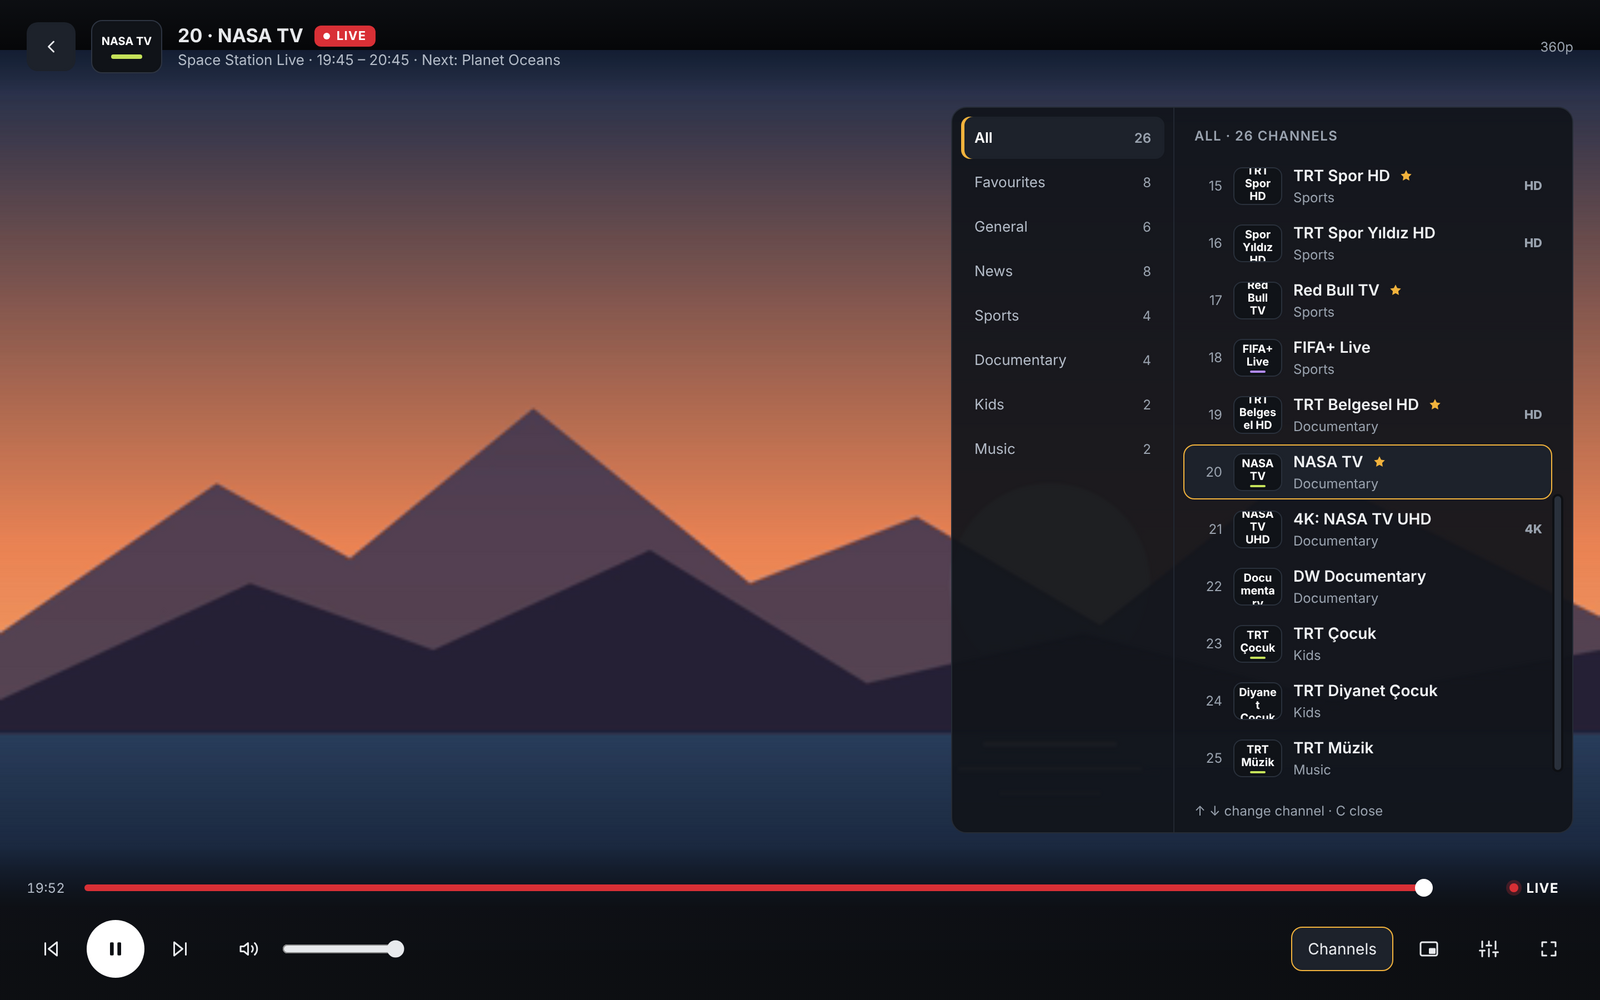
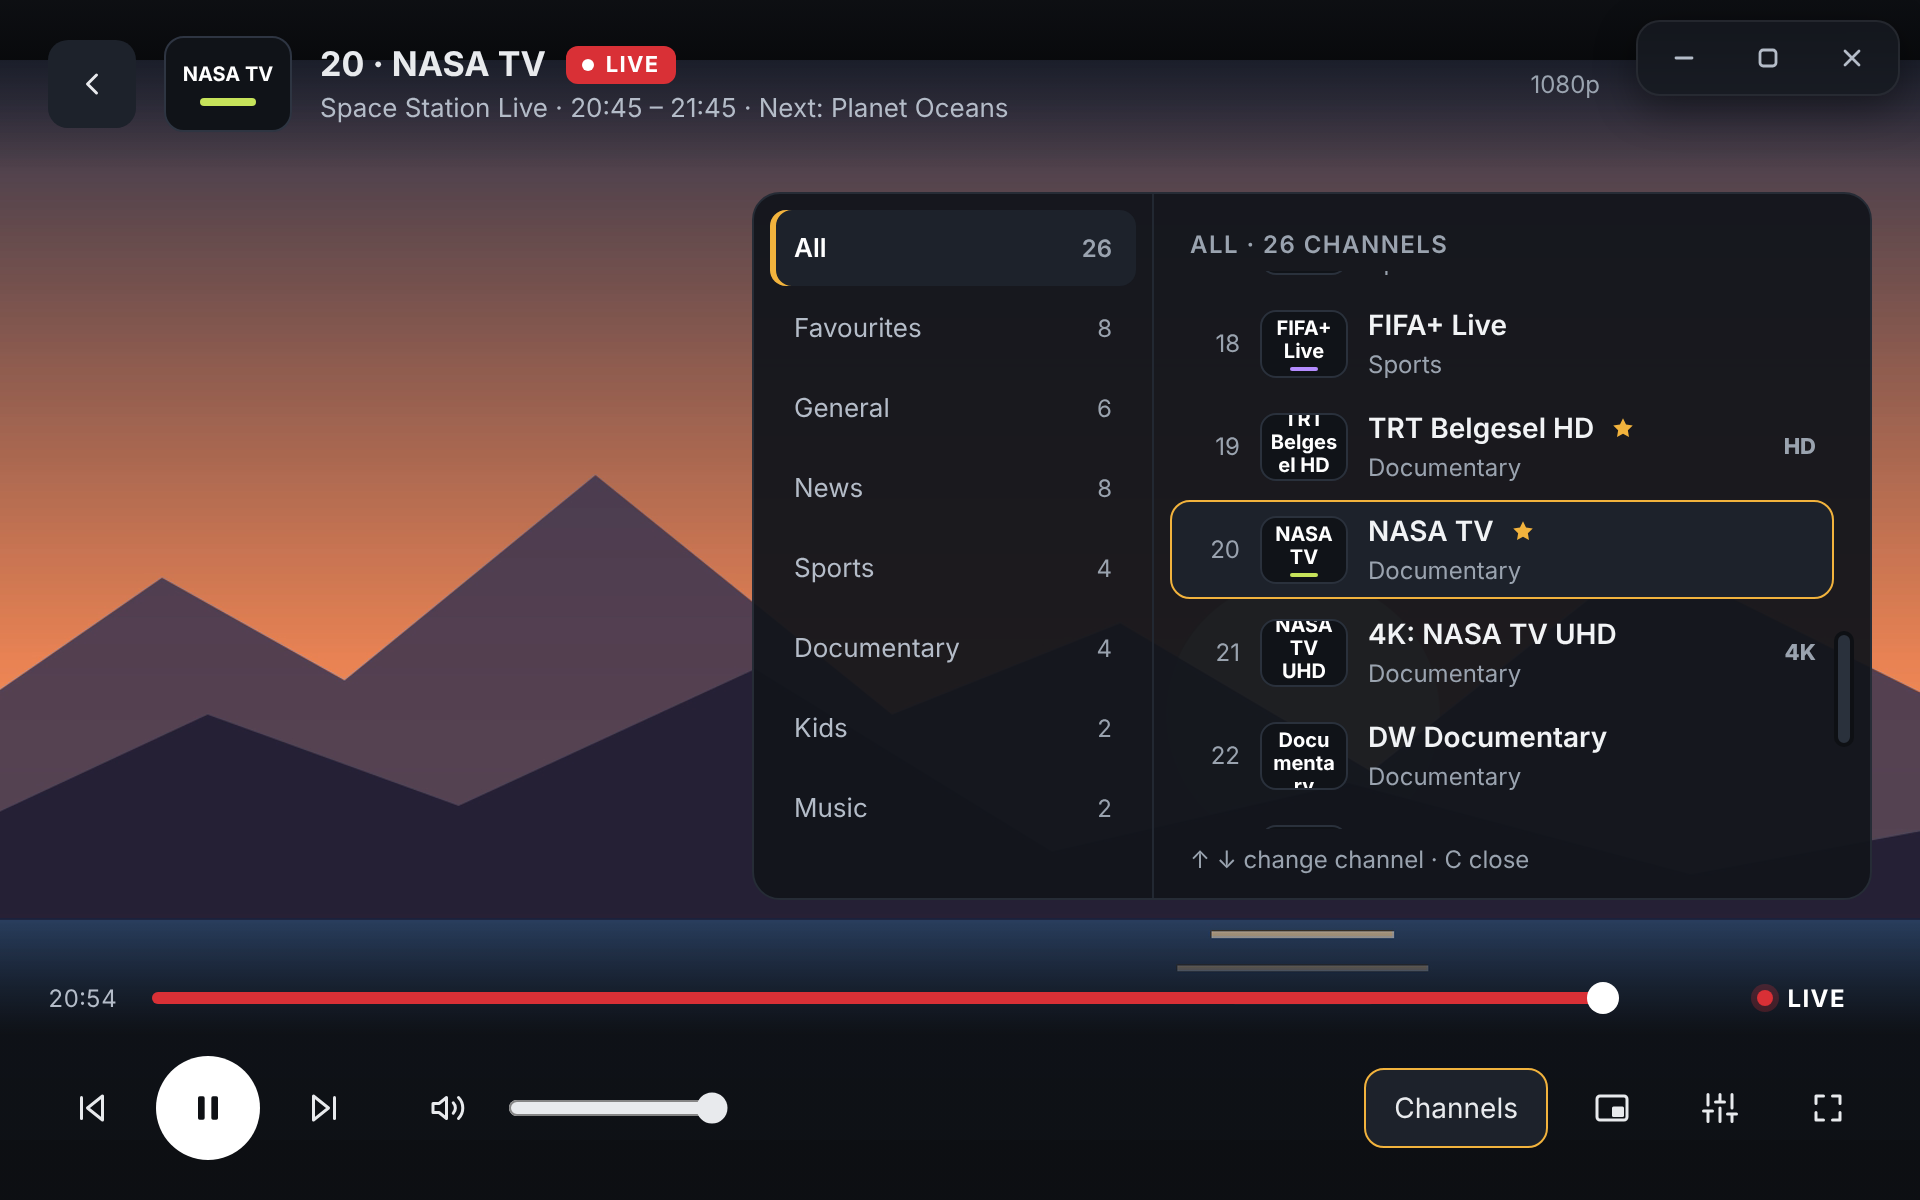
Themed window controls; v1.6.1
Claude-Session: https://claude.ai/code/session_01PUMCCVgVWLdA2JmvuGyicP

diff --git a/src/style.css b/src/style.css
@@ -510,3 +510,27 @@ html.tv .poster:focus { outline: none; }
 html.tv .poster:focus .poster-img { outline: 3px solid var(--accent); outline-offset: 2px; }
 html.tv .fav { opacity: 0; } html.tv .fav.on { opacity: 1; }
 .report-box { width: 100%; min-height: 220px; resize: vertical; padding: 12px; border-radius: 10px; background: var(--bg); border: 1px solid #2E3542; color: var(--text-2); font: 12px/1.5 ui-monospace, Consolas, monospace; }
+
+/* Pencere düğmeleri ve sürükleme alanları */
+.winbar { position: fixed; top: 10px; right: 10px; z-index: 60; display: flex; gap: 4px; padding: 4px; border-radius: 12px; background: #161A21D9; border: 1px solid #ffffff12; box-shadow: 0 6px 20px #0006; backdrop-filter: blur(10px); transition: opacity .25s; -webkit-app-region: no-drag; }
+.winbar button { width: 38px; height: 28px; display: flex; align-items: center; justify-content: center; border: 0; border-radius: 8px; background: transparent; color: var(--text-2); cursor: default; transition: background .15s, color .15s; }
+.winbar button:hover { background: #ffffff14; color: var(--text); }
+.winbar button:active { background: #ffffff1f; }
+.winbar button[data-win="max"]:hover { color: var(--accent); }
+.winbar button.close:hover { background: #D93036; color: #fff; }
+.winbar button.close:active { background: #B8282D; }
+.winbar svg { width: 12px; height: 12px; fill: none; stroke: currentColor; stroke-width: 1.4; stroke-linecap: round; stroke-linejoin: round; }
+.winbar .i-restore, html.win-max .winbar .i-max { display: none; }
+html.win-max .winbar .i-restore { display: block; }
+html.win-fs .winbar, html:fullscreen .winbar, body:has(.player.idle:not(.hidden)) .winbar { opacity: 0; pointer-events: none; }
+html.frameless .topbar { padding-right: 160px; }
+html.frameless .p-top { padding-right: 160px; }
+html.mac .sidebar { padding-top: 52px; }
+html.mac .p-top { padding-left: 92px; }
+.drag-strip { display: none; }
+html.frameless .drag-strip, html.mac .drag-strip { display: block; position: fixed; top: 0; left: 0; right: 0; height: 12px; z-index: 59; -webkit-app-region: drag; }
+.topbar, .sidebar, .p-top, .login { -webkit-app-region: drag; }
+.topbar *, .sidebar button, .sidebar a, .sidebar input, .sidebar select, .update-box, .account, .p-top *, .login-inner, .modal, .p-side, .p-menu { -webkit-app-region: no-drag; }
+.topbar h1 { -webkit-app-region: drag; }
+html:fullscreen .p-top, html.win-fs .p-top { padding-right: 24px; }
+html.win-fs .topbar { padding-right: 24px; }

diff --git a/main.js b/main.js
@@ -62,6 +62,13 @@ ipcMain.handle('update:install', async (e, url) => {
 
 ipcMain.on('win:fullscreen', (e, on) => { const w = BrowserWindow.fromWebContents(e.sender); if (w) w.setFullScreen(!!on); });
 
+ipcMain.on('win:ctl', (e, cmd) => {
+  const w = BrowserWindow.fromWebContents(e.sender); if (!w) return;
+  if (cmd === 'min') w.minimize();
+  else if (cmd === 'max') { if (w.isMaximized()) w.unmaximize(); else w.maximize(); }
+  else if (cmd === 'close') w.close();
+});
+
 ipcMain.on('shell:open', (e, url) => { if (/^https?:\/\//i.test(String(url))) shell.openExternal(url); });
 
 function createWindow() {
@@ -74,6 +81,8 @@ function createWindow() {
     title: 'Catana IPTV',
     icon: path.join(__dirname, 'src', 'icon.png'),
     autoHideMenuBar: true,
+    // Windows/Linux: sistem çubuğu yerine temaya uygun kendi düğmelerimiz; macOS: yerel trafik ışıkları uygulamanın içinde
+    ...(isMac ? { titleBarStyle: 'hiddenInset', trafficLightPosition: { x: 16, y: 18 } } : { frame: false }),
     webPreferences: {
       preload: path.join(__dirname, 'preload.js'),
       // Xtream sunucuları CORS başlığı göndermez; masaüstü uygulamada bu kontrolü kapatıyoruz.
@@ -83,6 +92,9 @@ function createWindow() {
     }
   });
   win.loadFile(path.join(__dirname, 'src', 'index.html'));
+  const sendState = () => { if (!win.isDestroyed()) win.webContents.send('win:state', win.isFullScreen() ? 'fullscreen' : win.isMaximized() ? 'maximized' : 'normal'); };
+  ['maximize', 'unmaximize', 'enter-full-screen', 'leave-full-screen'].forEach((ev) => win.on(ev, sendState));
+  win.webContents.on('did-finish-load', sendState);
   win.webContents.setWindowOpenHandler(({ url }) => {
     if (/^https?:\/\//i.test(url)) shell.openExternal(url);
     return { action: 'deny' };

diff --git a/src/i18n.js b/src/i18n.js
@@ -67,6 +67,9 @@ const DICT = {
   'Listeler güncellendi': ['Lists updated', 'Listen aktualisiert', 'Listes mises à jour', 'Listas actualizadas', 'Elenchi aggiornati', 'Списки обновлены', '列表已更新', 'सूचियाँ अपडेट हुईं'],
   'Tekrar dene': ['Try again', 'Erneut versuchen', 'Réessayer', 'Reintentar', 'Riprova', 'Повторить', '重试', 'फिर से कोशिश करें'],
   'Geri': ['Back', 'Zurück', 'Retour', 'Atrás', 'Indietro', 'Назад', '返回', 'वापस'],
+  'Simge durumuna küçült': ['Minimize', 'Minimieren', 'Réduire', 'Minimizar', 'Riduci a icona', 'Свернуть', '最小化', 'छोटा करें'],
+  'Büyüt': ['Maximize', 'Maximieren', 'Agrandir', 'Maximizar', 'Ingrandisci', 'Развернуть', '最大化', 'बड़ा करें'],
+  'Önceki boyut': ['Restore', 'Wiederherstellen', 'Restaurer', 'Restaurar', 'Ripristina', 'Восстановить', '还原', 'पुनर्स्थापित करें'],
   'Kapat': ['Close', 'Schließen', 'Fermer', 'Cerrar', 'Chiudi', 'Закрыть', '关闭', 'बंद करें'],
   'Kaydet': ['Save', 'Speichern', 'Enregistrer', 'Guardar', 'Salva', 'Сохранить', '保存', 'सहेजें'],
   'Kaydedildi': ['Saved', 'Gespeichert', 'Enregistré', 'Guardado', 'Salvato', 'Сохранено', '已保存', 'सहेजा गया'],

diff --git a/src/app.js b/src/app.js
@@ -81,6 +81,19 @@ const IS_LINUX = !!(NATIVE && NATIVE.platform === 'linux');
 const ENC_NAME = IS_MAC ? 'macOS Anahtar Zinciri' : IS_LINUX ? 'Linux anahtar zinciri' : 'Windows DPAPI';
 const ENC_USER = IS_MAC ? 'bu Mac kullanıcısı' : IS_LINUX ? 'bu Linux kullanıcısı' : 'bu Windows kullanıcısı';
 if (IS_MAC) document.documentElement.classList.add('mac');
+// Çerçevesiz pencere (Windows/Linux): kendi küçült/büyüt/kapat düğmelerimiz
+if (NATIVE && NATIVE.winCtl && !IS_MAC) {
+  const root = document.documentElement, bar = document.getElementById('winbar');
+  root.classList.add('frameless');
+  bar.classList.remove('hidden');
+  bar.addEventListener('click', (e) => { const b = e.target.closest('[data-win]'); if (b) NATIVE.winCtl(b.dataset.win); });
+  NATIVE.onWinState((st) => {
+    root.classList.toggle('win-max', st === 'maximized');
+    root.classList.toggle('win-fs', st === 'fullscreen');
+    const m = bar.querySelector('[data-win="max"]'), label = st === 'maximized' ? 'Önceki boyut' : 'Büyüt';
+    m.title = label; m.setAttribute('aria-label', label);
+  });
+}
 // Şifreler diske Windows şifrelemesiyle (DPAPI) yazılır; bellekte çözülmüş tutulur.
 function loadProfiles() {
   let migrate = false;

diff --git a/src/index.html b/src/index.html
@@ -174,6 +174,14 @@
 <div id="toast" class="toast" role="status"></div>
 <div id="loading" class="loading hidden"><div class="spinner"></div><span id="loadingText">Yükleniyor…</span></div>
 
+<!-- Pencere düğmeleri (Windows/Linux) -->
+<div id="winbar" class="winbar hidden">
+  <button type="button" data-win="min" title="Simge durumuna küçült" aria-label="Simge durumuna küçült"><svg viewBox="0 0 12 12" aria-hidden="true"><path d="M2 6h8"/></svg></button>
+  <button type="button" data-win="max" title="Büyüt" aria-label="Büyüt"><svg class="i-max" viewBox="0 0 12 12" aria-hidden="true"><rect x="2" y="2" width="8" height="8" rx="1.6"/></svg><svg class="i-restore" viewBox="0 0 12 12" aria-hidden="true"><rect x="2" y="4" width="6" height="6" rx="1.4"/><path d="M4.2 2h4.2A1.6 1.6 0 0 1 10 3.6v4.2"/></svg></button>
+  <button type="button" data-win="close" class="close" title="Kapat" aria-label="Kapat"><svg viewBox="0 0 12 12" aria-hidden="true"><path d="M2.5 2.5l7 7M9.5 2.5l-7 7"/></svg></button>
+</div>
+<div class="drag-strip" aria-hidden="true"></div>
+
 <script src="../node_modules/hls.js/dist/hls.min.js"></script>
 <script src="../node_modules/mpegts.js/dist/mpegts.js"></script>
 <script src="i18n.js"></script>

diff --git a/preload.js b/preload.js
@@ -9,6 +9,8 @@ contextBridge.exposeInMainWorld('native', {
   openExternal: (url) => ipcRenderer.send('shell:open', url),
   setFullScreen: (on) => ipcRenderer.send('win:fullscreen', !!on),
   platform: process.platform,
+  winCtl: (cmd) => ipcRenderer.send('win:ctl', cmd),
+  onWinState: (cb) => ipcRenderer.on('win:state', (e, st) => cb(st)),
   installUpdate: (url) => ipcRenderer.invoke('update:install', url),
   onUpdateProgress: (cb) => ipcRenderer.on('update:progress', (e, p) => cb(p)),
   versions: { app: ipcRenderer.sendSync('app:version'), electron: process.versions.electron, chrome: process.versions.chrome }

diff --git a/CHANGELOG.md b/CHANGELOG.md
@@ -1,5 +1,9 @@
 # Changelog
 
+## 1.6.1
+- Themed window controls on Windows and Linux (minimize, maximize, close) instead of the system title bar
+- macOS: native window buttons sit inside the app
+
 ## 1.6.0
 - **M3U playlists** as a second profile type next to Xtream Codes
 - **Multi-View**: watch 2 or 4 channels at once
